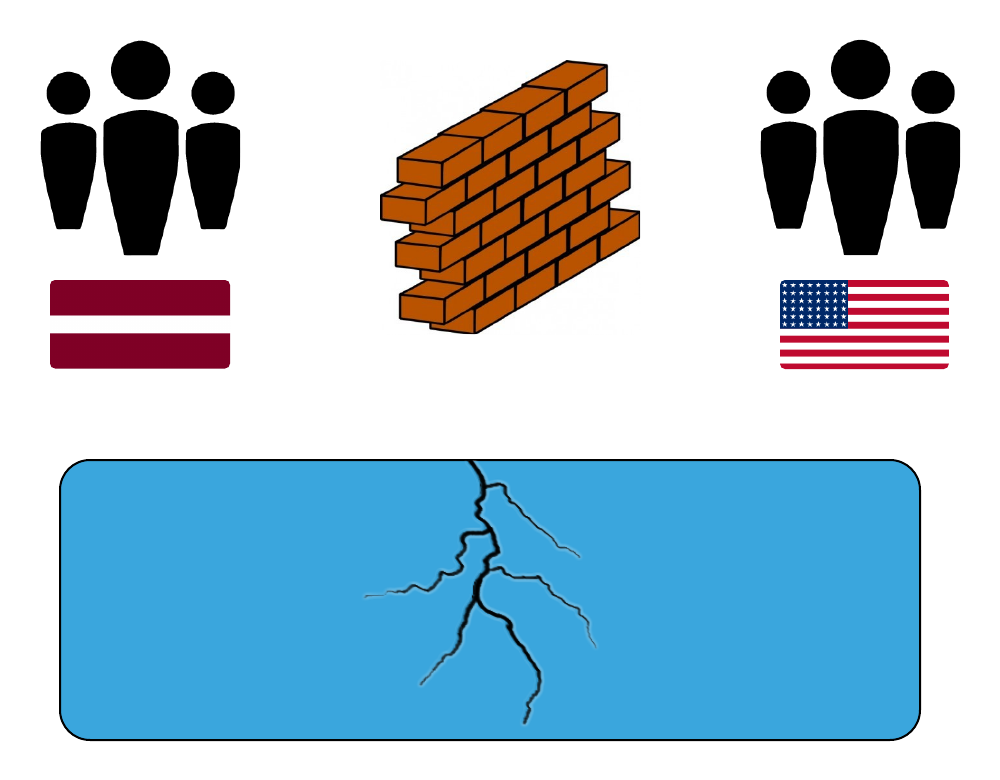
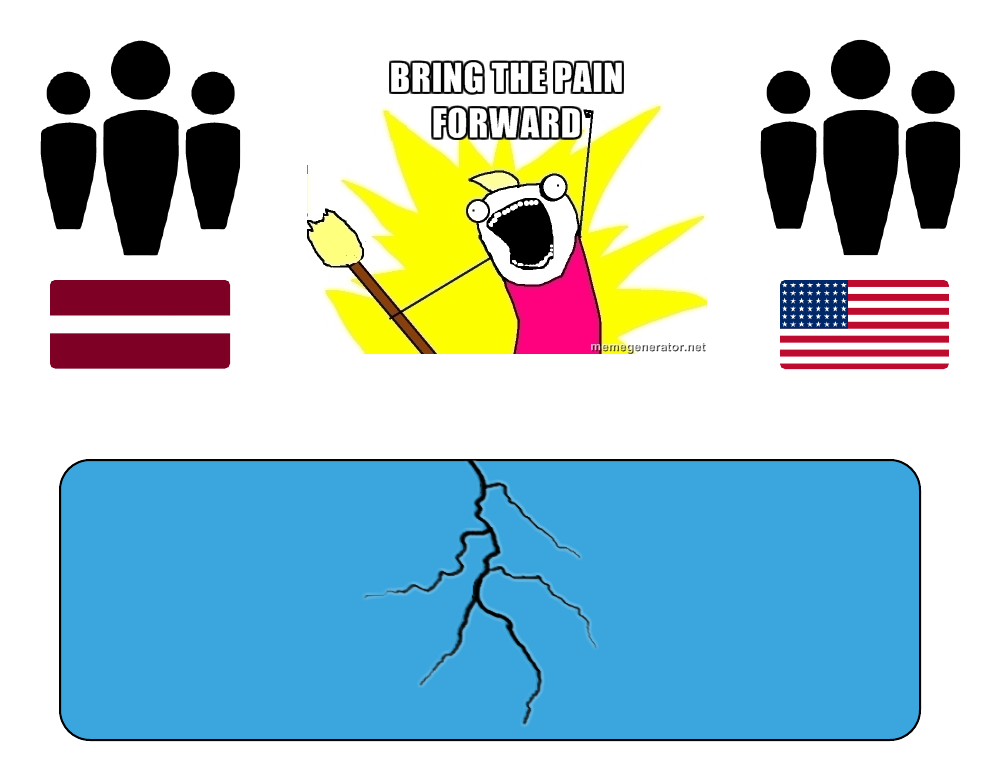
yo

Changed region(s): [[0.31, 0.0615, 0.713, 0.4615]]

diff --git a/index.html b/index.html
@@ -437,25 +437,19 @@ class: center, middle
 
 ---
 # Lessons learned
-## Adoption must go from the inside-out. 
-## .fade[External support is highly appreciated. But not more than that.]
-## .fade[CD is just solution for a problem. Team that is in trouble should learn how to solve it.]
+## Over-utilized "slaves" can't do CD. "Tigers" will eventually fail.
+## .fade[CD is a journey, not a marathon.]
 ???
 - team that directly benefit from CD (feels like tigers). 
+- instead of building tiger teams around UTILIZED slaves, give "slaves" 1/4 of their time to improve things. Overutilized teams can't do CD.
 
 ---
 # Lessons learned
-## .fade[Adoption must go from the inside-out. ]
-## External support is highly appreciated. But not more than that.
-## .fade[CD is just solution for a problem. Team that is in trouble should learn how to solve it.]
-
----
-# Lessons learned
-## .fade[Adoption must go from the inside-out.]
-## .fade[External support is highly appreciated. But not more than that.]
-## CD is just solution for a problem. Team that is in trouble should learn how to solve it.
+## .fade[Over-utilized "slaves" can't do CD. "Tigers" will eventually fail.]
+## CD is a journey, not a marathon.
 ???
 - why consultants can't implement continuous delivery (ok, solve problem, what's next?)
+- invest in team's abiltiy to continuously improve -> it may lead to CD. CD is not possible w/o CI culture.
 
 ---
 class: middle, fuckup
@@ -489,27 +483,28 @@ class: whitebg
 ???
 it's very hard communicate (time overlap, california team). 
 
-Instead of fixing the wall first, managers said: 
-BRING THE PAIN FORWARD! 
-LET'S MOVE FASTER AND DEPLOY AS SOON AS FEATURE IS READY. 
-CD IS SOLELY TECHNICAL CHALLENGE ANYWAY.
+---
+background-image:url(bringthepain.png)
+class: whitebg
+???
+Agile coach: BRING THE PAIN FORWARD! YOU WILL FIGURE OUT THE WAY HOW TO COMMUNICATE
 
 ---
 background-image:url(crack.png)
 class: whitebg
 ???
 System start to crack because:
-- In order to avoid communication penalty we have to find way to isolate!!!
-- Teams grow siloed.
-- Code grows, architecture grows siloed and knowledge islands appear (no PP, no CodeReviews, WHAT'S THAT???)
-- Teams started to blame each other (if there was a bug introduced by team A, team B doesn't care)
-- Team A promised to deliver today, but due to Team B they have to rollback. OOPS.
-- Continuous delivery becomes nightmare.
+- Instead trying to find the issue, in order to avoid communication penalty we have to find way to isolate!!!
+- Chat messages read only next day, no PP, no code reviews, no inter-team standups. BUT THE SAME CODEBASE
+- Code grows, architecture grows siloed and knowledge islands appear.
+- Continuous Delivery ended up CONTINUOUS BLAMING (Team A rollbacks for Team B, Team B looks at code they don't know etc.)
 
 ---
 class: story, middle, center
 ## Your team structure will override any architecture you have.
 ### (c) Jeffrey Sologov
+???
+Check mate!!! 
 
 ---
 class: whitebg
@@ -532,8 +527,8 @@ background-image:url(bc.png)
 ---
 # Takeaways
 ## Continuous Delivery may require organisation to change (continuously, bi-di)
-## .fade[Organise systems and teams around business capabilities]
-## .fade[Never split a domain across geo locations / org units]
+## .fade[Some teams have very high pain tolerance]
+## .fade[Pain usually leads to painkillers, instead of solving actual problems]
 ## .fade[Respect Newton's Laws of Software Development]
 ???
 before going fast, clean up the basement - improve architecture so it enabled CD.
@@ -542,25 +537,30 @@ And since you can't build architecture right from the first shot, org ability to
 ---
 # Takeaways
 ## .fade[Continuous Delivery may require organisation to change (continuously, bi-di)]
-## Organise systems and teams around business capabilities
-## .fade[Never split a domain across geo locations / org units]
+## Some teams have very high pain tolerance
+## .fade[Pain usually leads to painkillers, instead of solving actual problems]
 ## .fade[Respect Newton's Laws of Software Development]
 
 ---
 # Takeaways
 ## .fade[Continuous Delivery may require organisation to change (continuously, bi-di)]
-## .fade[Organise systems and teams around business capabilities]
-## Never split a domain across geo locations / org units
+## .fade[Some teams have very high pain tolerance]
+## Pain usually leads to painkillers, instead of solving actual problems
 ## .fade[Respect Newton's Laws of Software Development]
 
 ---
 # Takeaways
 ## .fade[Continuous Delivery may require organisation to change (continuously, bi-di)]
-## .fade[Organise systems and teams around business capabilities]
-## .fade[Never split a domain across geo locations / org units]
+## .fade[Some teams have very high pain tolerance]
+## .fade[Pain usually leads to painkillers, instead of solving actual problems]
 ## Respect Newton's Laws of Software Development
 ???
 - There are many more rules, you can learn about them in MMM
+
+---
+class: center, middle
+# How does a project get to be a year late? One day at a time!
+## (c) Mythican Man Month
 
 
 ---
@@ -631,20 +631,26 @@ background-image:url(push.png)
 class: whitebg
 # Push
 ???
-- You are just small screw in the org. 
-- Deliver more!!! Optimize locally. Suboptimize the whole.
+- We have to move faster. Moving faster as an organisation, not as "part of the team".
+- QA are overutilised. You should know that overutilized teams do crappy thigns.
+
 
 ---
-background-image:url(pull.png)
-class: whitebg
-# Pull instead.
-
----
-background-image:url(trello.png)
-class: center, middle, whitebg, trello
+class: trello
+background-image:url(wipTest.png)
 ???
-- What do you normally do? GRAB THE NEXT FEATURE (OPTIMIZE FOR UTILIZATION).
-- AND YOU INCREASE BATCH SIZE.
+Set wip limit! Say that there can be only 1 item under testing at max.
+
+---
+class: trello
+background-image:url(wipDev.png)
+???
+
+
+---
+class: trello
+background-image:url(wipTodo.png)
+
 
 ---
 background-image:url(little.jpg)
@@ -659,66 +665,29 @@ Team has 32 cards in process (total WIP) and a throughput of 2 cards/day,
 Average cycle time = **???** days 
 
 ???
-16
+16!!
 If the same team maintains the same throughput but increases its total WIP to 40 cards, the average cycle time becomes 32 days.
-
----
-# What can you do instead?
-## Unblock value stream
-## .fade[Work on solution that will prevent blocking in future]
-## .fade[Help your team finish existing work]
-## .fade[Help other teams finish existing work]
-## .fade[Improve things]
-
----
-# What can you do instead?
-## .fade[Unblock value stream]
-## Work on solution that will prevent blocking in future
-## .fade[Help your team finish existing work]
-## .fade[Help other teams finish existing work]
-## .fade[Improve things]
-
----
-# What can you do instead?
-## .fade[Unblock value stream]
-## .fade[Work on solution that will prevent blocking in future]
-## Help your team finish existing work
-## .fade[Help other teams finish existing work]
-## .fade[Improve things]
-
----
-# What can you do instead?
-## .fade[Unblock value stream]
-## .fade[Work on solution that will prevent blocking in future]
-## .fade[Help your team finish existing work]
-## Help other teams finish existing work
-## .fade[Improve things]
-
----
-# What can you do instead?
-## .fade[Unblock value stream]
-## .fade[Work on solution that will prevent blocking in future]
-## .fade[Help your team finish existing work]
-## .fade[Help other teams finish existing work]
-## Improve things
+If I want avg cycle team = 1 day?
 
 ---
 # Takeaways
 ## Optimize the whole (In every system, exactly one constraint determines the system’s capacity)
-## .fade[Embrace slack]
-## .fade[Reduce and limit WiP]
+## .fade[1 completed feature beats 10 in progress]
+## .fade[QAs! Never be just testers. Be testing facilitators.]
 
 ---
 # Takeaways
 ## .fade[Optimize the whole (In every system, exactly one constraint determines the system’s capacity)]
-## Embrace slack
-## .fade[Reduce and limit WiP]
+## 1 completed feature beats 10 in progress
+## .fade[QAs! Never be just testers. Be testing facilitators.]
 
 ---
 # Takeaways
 ## .fade[Optimize the whole (In every system, exactly one constraint determines the system’s capacity)]
-## .fade[Embrace slack]
-## Reduce and limit WIP
+## .fade[1 completed feature beats 10 in progress]
+## QAs! Never be just testers. Be testing facilitators.
+???
+Devs never had time for testing. I sent QA to vacation. ... Don't send QA to permanent vacation though :)
 
 ---
 class: center, middle, whitebg, shadow, kanban
